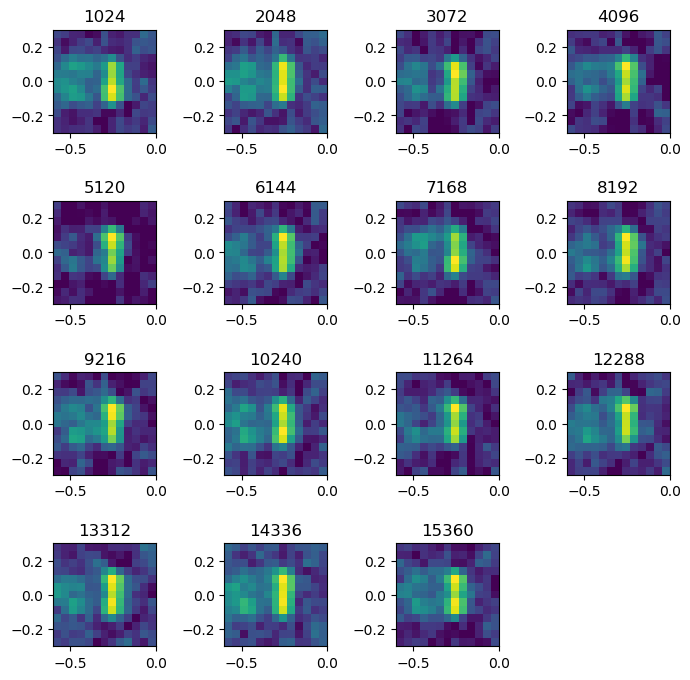
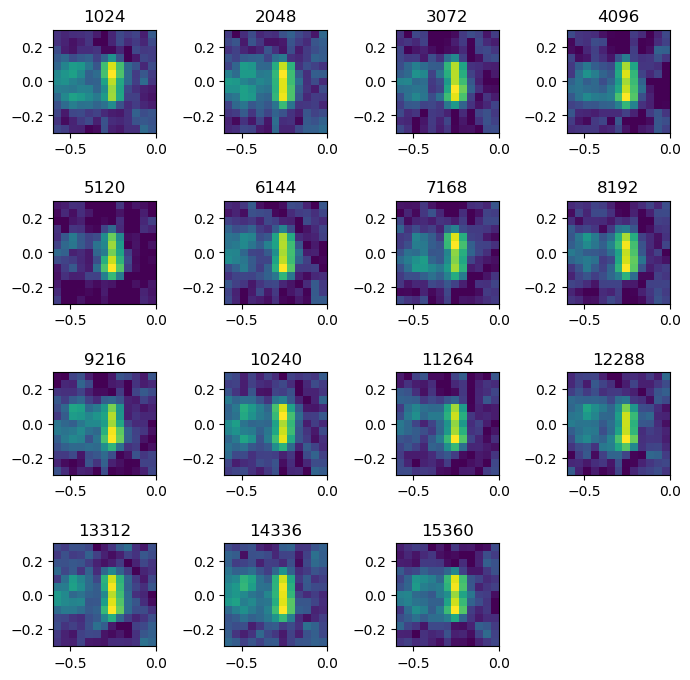
doc: display soundmaps in examples with correct orientation; better readability example2 plots

diff --git a/examples/example2.py b/examples/example2.py
@@ -27,7 +27,7 @@ TimeCache, FiltOctave, BeamformerTime, TimePower, IntegratorSectorTime, \
 PointSource, MovingPointSource, SineGenerator, WNoiseGenerator, Mixer, WriteWAV
 
 from pylab import subplot, imshow, show, colorbar, plot, transpose, figure, \
-psd, axis, xlim, ylim, title, suptitle, tight_layout
+psd, axis, xlim, ylim, title, tight_layout, text
 
 #===============================================================================
 # some important definitions
@@ -112,7 +112,7 @@ cacht = TimeCache(source=avgt) # cache to prevent recalculation
 map2 = zeros(g.shape) # accumulator for average
 # plot single frames
 figure(1,(8,7))
-i = 0
+i = 1
 for res in cacht.result(1):
     res0 = res[0].reshape(g.shape)
     map2 += res0 # average
@@ -124,7 +124,9 @@ for res in cacht.result(1):
     colorbar()
 map2 /= i
 
-suptitle('fixed focus')
+subplot(4,4,1)
+text(0.4,0.25,'fixed\nfocus', fontsize=15, ha='center')
+axis('off')
 tight_layout()
 
 
@@ -144,7 +146,7 @@ cachts = TimeCache(source=avgts) # cache to prevent recalculation
 map3 = zeros(g1.shape) # accumulator for average
 # plot single frames
 figure(2,(8,7))
-i = 0
+i = 1
 for res in cachts.result(1):
     res0 = res[0].reshape(g1.shape)
     map3 += res0 # average
@@ -156,7 +158,9 @@ for res in cachts.result(1):
     colorbar()
 map3 /= i
 
-suptitle('moving focus')
+subplot(4,4,1)
+text(0.4,0.25,'moving\nfocus', fontsize=15, ha='center')
+axis('off')
 tight_layout()
 
 #===============================================================================

diff --git a/examples/example1.py b/examples/example1.py
@@ -143,7 +143,7 @@ for b in (cacht, cachts):
         res += r[0] # average accum.
         map = r[0].reshape(g.shape)
         mx = L_p(map.max())
-        imshow(L_p(map.T), vmax=mx, vmin=mx-15, 
+        imshow(L_p(map.T), vmax=mx, vmin=mx-15, origin='lower',
                interpolation='nearest', extent=g.extend())
         title('%i' % ((i3-1)*1024))
     res /= i3-1 # average
@@ -154,7 +154,7 @@ for b in (cacht, cachts):
     i1 += 1
     map = res.reshape(g.shape)
     mx = L_p(map.max())
-    imshow(L_p(map.T), vmax=mx, vmin=mx-15, 
+    imshow(L_p(map.T), vmax=mx, vmin=mx-15, origin='lower',
            interpolation='nearest', extent=g.extend())
     colorbar()
     title(('BeamformerTime','BeamformerTimeSq')[i2-3])

diff --git a/examples/example6.py b/examples/example6.py
@@ -106,7 +106,7 @@ for r_diag in (True,False):
             i1 += 1
             map = b.synthetic(cfreq,1)
             mx = L_p(map.max())
-            imshow(L_p(map.T), vmax=mx, vmin=mx-15, 
+            imshow(L_p(map.T), vmax=mx, vmin=mx-15,  origin='lower',
                    interpolation='nearest', extent=g.extend())
             print(b.steer)
             colorbar()

diff --git a/examples/example7.py b/examples/example7.py
@@ -89,7 +89,7 @@ for method in ('LassoLars', 'LassoLarsBIC', \
     map = b.synthetic(cfreq,1)
     print(time()-ti)
     mx = L_p(map.max())
-    imshow(L_p(map.T), vmax=mx, vmin=mx-15, 
+    imshow(L_p(map.T), vmax=mx, vmin=mx-15,  origin='lower',
            interpolation='nearest', extent=g.extend())
     colorbar()
     title(b.method)
